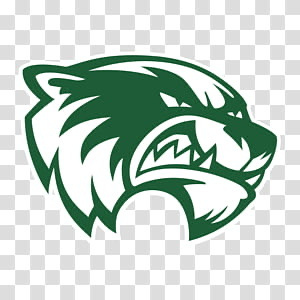
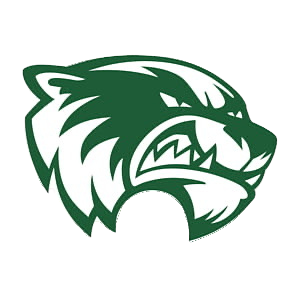
Changes

Changed region(s): [[0.0, 0.0, 1.0, 1.0], [0.15, 0.21, 0.18, 0.24]]

diff --git a/src/components/landing/CommitmentsGrid.tsx b/src/components/landing/CommitmentsGrid.tsx
@@ -7,7 +7,7 @@ const commitments = [
   { name: "University of Mary", logo: "/colleges/university-of-mary.png" },
   { name: "Coastal Carolina", logo: "/colleges/coastal-carolina.png" },
   { name: "Ole Miss", logo: "/colleges/ole-miss.png" },
-  { name: "Utah Valley University", logo: "/colleges/utah-valley.png?v=2" },
+  { name: "Utah Valley University", logo: "/colleges/utah-valley.png?v=3" },
   { name: "New Mexico St. University", logo: "/colleges/new-mexico-state.png" },
   { name: "Glendale CC", logo: "/colleges/glendale-cc.png" },
   { name: "Justice University", logo: "/colleges/justice-university.png" },
